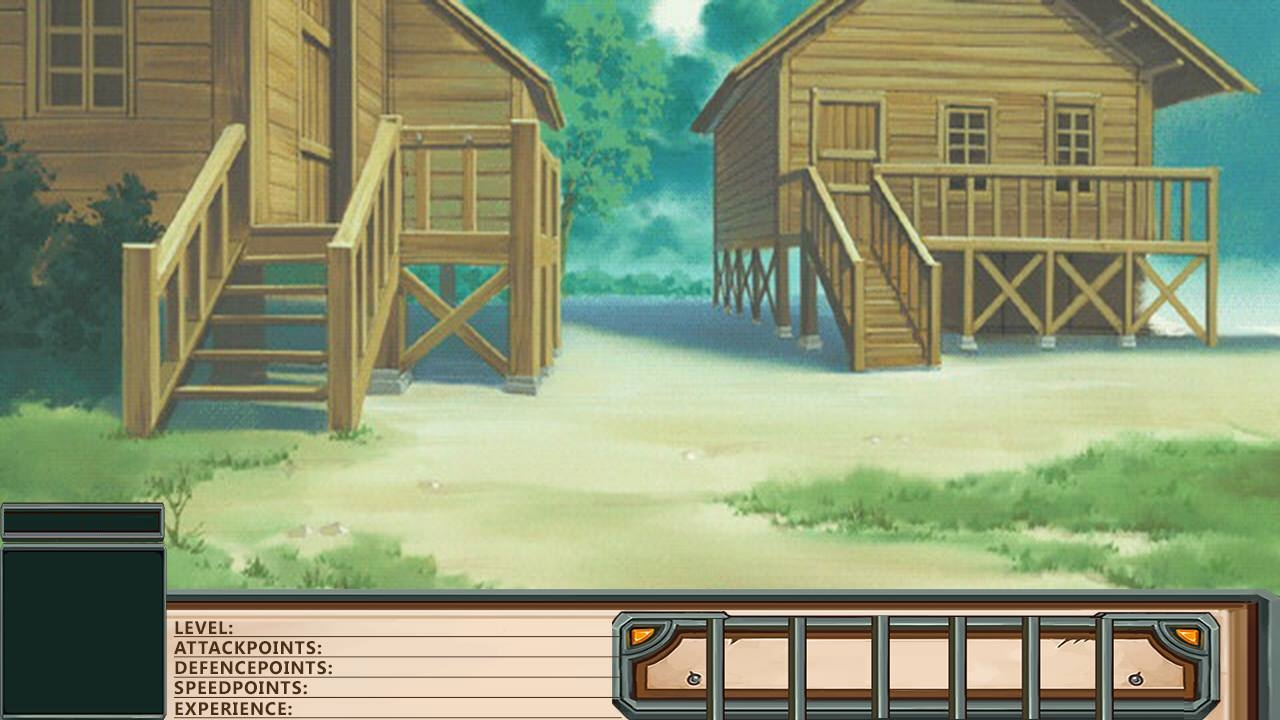
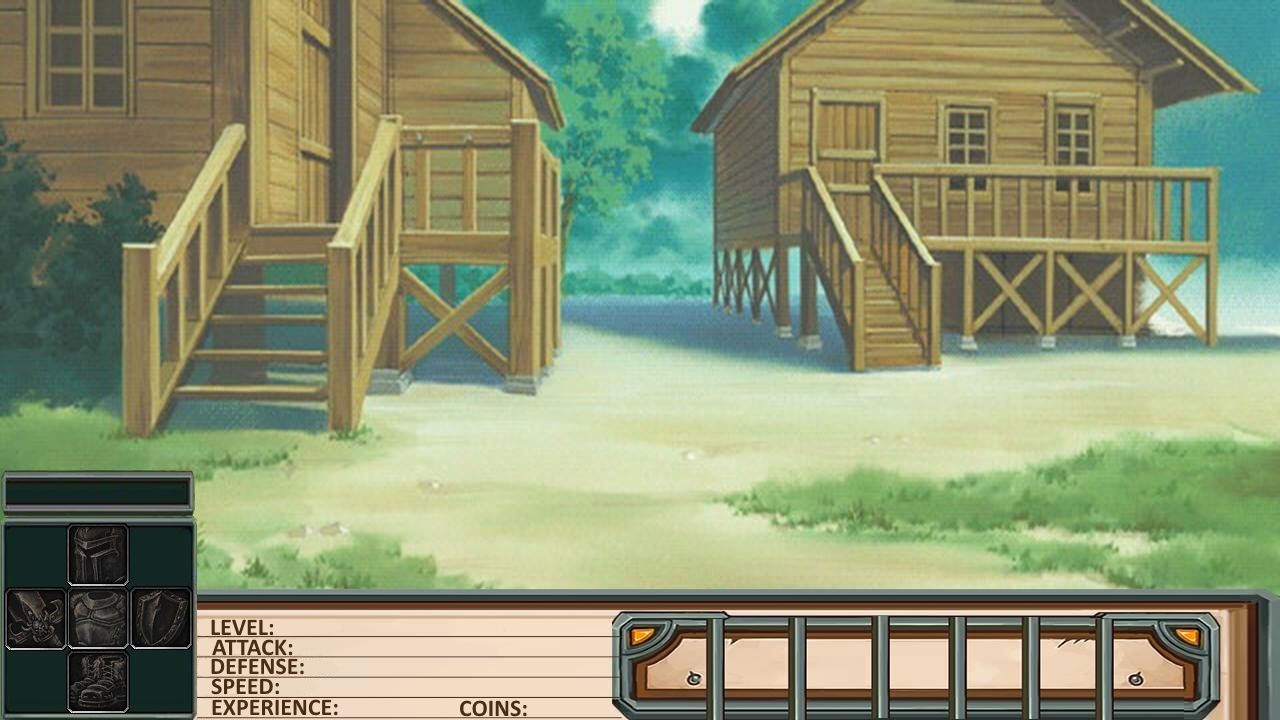
Modified HomeMap image and updated obsticles on.

Changed region(s): [[0.0, 0.6417, 0.2812, 1.0], [0.3438, 0.9472, 0.4062, 1.0]]

diff --git a/Trulon2.0/Trulon2.0/GUI/GameGUI.cs b/Trulon2.0/Trulon2.0/GUI/GameGUI.cs
@@ -34,8 +34,6 @@
         private Texture2D BodyImage;
         private Texture2D FeetImage;
 
-        
-
         public GameGUI(Engine engine)
         {
             Dictionary<EquipmentSlots, Rectangle> playersEquipment = new Dictionary<EquipmentSlots, Rectangle>();
@@ -77,11 +75,12 @@
             }
 
             //Labels
-            spriteBatch.DrawString(this.engine.font, this.engine.player.Level.ToString(), new Vector2(520, 615), Color.SaddleBrown);
-            spriteBatch.DrawString(this.engine.font, this.engine.player.AttackPoints.ToString(), new Vector2(520, 635), Color.SaddleBrown);
-            spriteBatch.DrawString(this.engine.font, this.engine.player.DefensePoints.ToString(), new Vector2(520, 655), Color.SaddleBrown);
-            spriteBatch.DrawString(this.engine.font, this.engine.player.SpeedPoints.ToString(), new Vector2(520, 675), Color.SaddleBrown);
-            spriteBatch.DrawString(this.engine.font, this.engine.player.Experience.ToString(), new Vector2(520, 695), Color.SaddleBrown);
+            spriteBatch.DrawString(this.engine.font, this.engine.player.Level.ToString(), new Vector2(380, 617), Color.Black);
+            spriteBatch.DrawString(this.engine.font, this.engine.player.AttackPoints.ToString(), new Vector2(380, 637), Color.Black);
+            spriteBatch.DrawString(this.engine.font, this.engine.player.DefensePoints.ToString(), new Vector2(380, 657), Color.Black);
+            spriteBatch.DrawString(this.engine.font, this.engine.player.SpeedPoints.ToString(), new Vector2(380, 677), Color.Black);
+            spriteBatch.DrawString(this.engine.font, this.engine.player.Experience.ToString(), new Vector2(380, 697), Color.Black);
+            spriteBatch.DrawString(this.engine.font, this.engine.player.Coins.ToString(), new Vector2(550, 697), Color.Black);
             
             //Inventory full message
             if (engine.player.inventoryIsFull)

diff --git a/Trulon2.0/Trulon2.0/Models/Maps/Level1.cs b/Trulon2.0/Trulon2.0/Models/Maps/Level1.cs
@@ -16,8 +16,8 @@
                                        //    new Obsticle(310, 390, 20, 15, Direction.Left),
                                        //    new Obsticle(350, 311, 200, 20, Direction.Up),
                                            //HUD
-                                           new Obsticle(0, 360, 130, 0, Direction.Down),
-                                           new Obsticle(115, 375, 20, 90, Direction.Left),
+                                           new Obsticle(0, 330, 130, 0, Direction.Down),
+                                           new Obsticle(115, 375, 40, 90, Direction.Left),
                                            new Obsticle(115, 450, 1100, 0, Direction.Down), 
                                        };
         }
